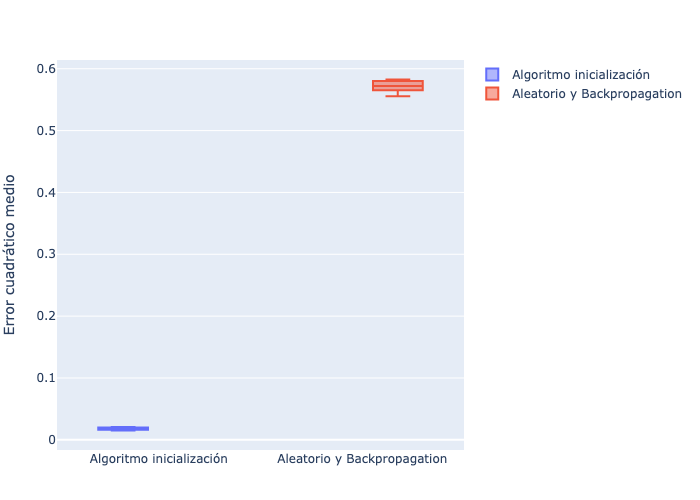
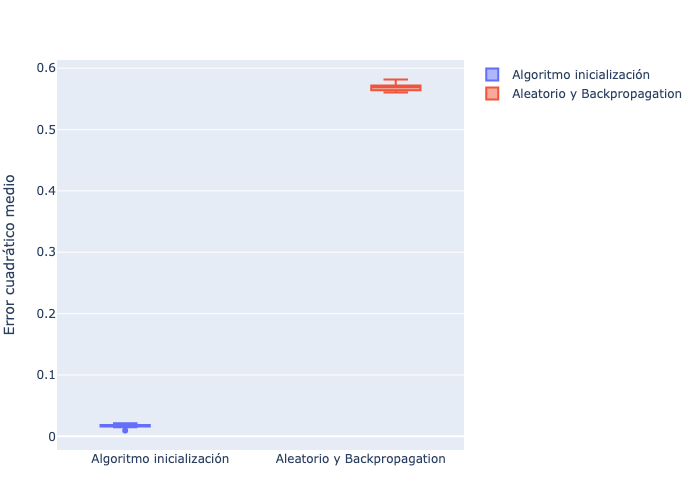
Datos de #115 que van para la memoria

diff --git a/Memoria/capitulos/5-Estudio_experimental/3_algoritmo-inicializacion-pesos.tex b/Memoria/capitulos/5-Estudio_experimental/3_algoritmo-inicializacion-pesos.tex
@@ -28,7 +28,7 @@ El experimento costa de los siguientes pasos:
 \item Dado un conjunto de datos de entrenamiento $\D$  se separará el conjunto en:
 \begin{itemize}
     \item $\D_i$ \textbf{Conjunto de 
-    datos de inicialización.} Debe de ser mayor que 
+    datos de entrenamiento e inicialización.} Debe de ser mayor que 
     $n$ y lo suficientemente grande para que el algoritmo diseñado funcione correctamente. 
 
     \item $\D_t$ \textbf{Conjunto de 
@@ -55,7 +55,7 @@ de regresión de variable real y $n$ vendrá dado como $n = \lfloor \alpha |\mat
 \end{itemize}
 
 % Paso 2: Evaluación del error
-\item Con los datos de entrenamiento $D_i$ y el algoritmo de aprendizaje de \textit{Backpropagation}se entrenará la neuronal inicializada aleatoriamente hasta que iguale o supere el error $\varepsilon_i$. Además puesto que puede darse el caso de quedar estancados en un mínimo local  o que oscile entorno a un mínimo (ver propiedades del gradiente descendente \ref{ch05:gradiente-descentente})
+\item Con los datos de entrenamiento $D_i$ y el algoritmo de aprendizaje de \textit{Backpropagation} se entrenará la neuronal inicializada aleatoriamente hasta que iguale o supere el error $\varepsilon_i$. Además puesto que puede darse el caso de quedar estancados en un mínimo local  o que oscile entorno a un mínimo si el $\eta$ no es lo suficientemente pequeño (ver propiedades del gradiente descendente \ref{ch05:gradiente-descentente})
 superior al error encontrado con el algoritmo de inicialización de pesos, se ha añadido también como criterio de parada el que error se estanque o empeore durante 5 iteraciones consecutivas. 
 Se medirá el tiempo que necesita hasta su fin $t_b$ y el error en entrenamiento y test. 
 
@@ -135,4 +135,14 @@ Cabe destacar que para este algoritmo es necesario la derivada de las funciones 
 Deberá de implementarse una función que realice el 
 experimento tal cual hemos descrito en \ref{ch07:experimento-1}.
 
-% Se ha eliminado el contenido de aquí anterior porque eran notas en sucio
+\subsection{Resultados obtenidos}
+
+Concretamente de el experimentos se ha realizado con $\frac{3}{4}|\mathcal{D}|$ de datos de entrenamiento 
+y el resto de test, se ha repetido además $15$ veces. 
+
+Durante cada iteración los datos del conjunto han sido desordenados. 
+
+Los resultados obtenidos han sido los siguientes: 
+
+Y donde el test de los signos de Wilcoxon ha rechazado la hipótesis nula con un $95\%$ de confianza. 
+

diff --git a/Memoria/capitulos/5-Estudio_experimental/2_descripcion_inicializacion-pesos.tex b/Memoria/capitulos/5-Estudio_experimental/2_descripcion_inicializacion-pesos.tex
@@ -72,7 +72,11 @@ de manera aleatoria bajo el supuesto de una distribución
 independiente e idénticamente distribuida de los datos. 
 
 Como apunta la demostración, debe encontrarse un 
-$p \in \R^d$ satisfaciendo que $p \cdot (x_i-x_j) \neq 0$ para cualesquiera
+$p \in \R^d$ satisfaciendo que 
+\begin{equation}
+    p \cdot (x_i-x_j) \neq 0
+\end{equation}
+para cualesquiera
 atributos $x_i,x_j$ distintos de $\Lambda$.  
 
 Es decir que se estaría considerando un vector que no 
